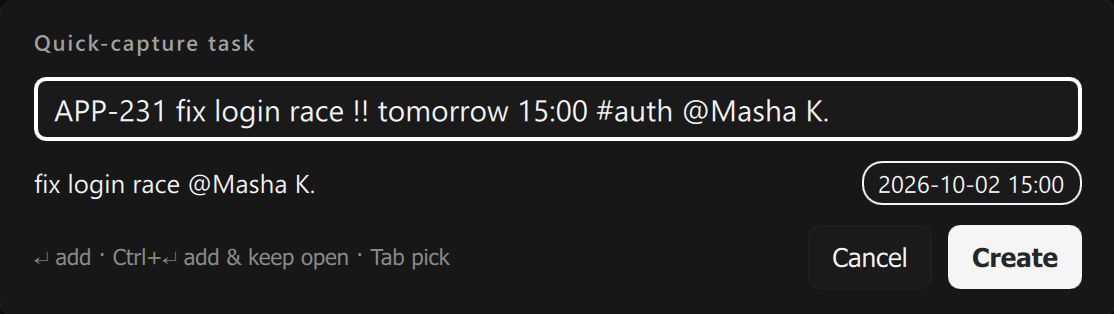
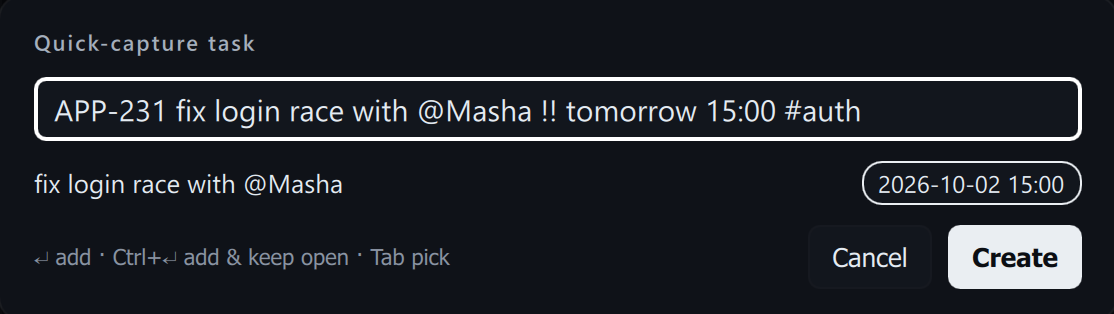
feat(theme): heap. ink preset as the new default; reshoot screenshots
heap. ink is the Minimal recipe in the brand's own colours: navy-black
surfaces and the mark's ink greys from design/brand-export, a monochrome
accent like the logo, hairlines tinted with the ink, the brand cyan for
links, mentions and keywords, and the brand status hues. New installs and
"Reset all settings" now start on it (with heap. light and soft
contrast); the built-in fallback for profiles that never opened
Appearance stays heap. dark.

Screenshots are retaken in heap. ink, without the git focus banner; the
README keeps git as a feature in text only.

The social card used as the README hero rendered with fallback fonts on
GitHub (Arial / Georgia) and a stray space in "heap .", from a line break
before the dot's <tspan>. The source keeps live text with the break
removed; heap-og-card-outlined.svg has the text as glyph outlines from the
fonts the site already ships, generated by design/brand-export/outline_svg.py.

diff --git a/qml/I18n.qml b/qml/I18n.qml
@@ -1012,7 +1012,7 @@ QtObject {
             "settings.data.importJson": "↑ Import from JSON",
             "settings.data.danger": "Danger zone",
             "settings.data.reset": "Reset all settings",
-            "settings.data.reset.hint": "Appearance (back to Minimal dark, soft), notifications, calendar, tasks, backups, updates and git rules go back to defaults. Kept: profiles, tasks, notes, your profile card, tracker connections, watched repositories, your own themes and the window layout. Undo from the toast.",
+            "settings.data.reset.hint": "Appearance (back to heap. ink, soft), notifications, calendar, tasks, backups, updates and git rules go back to defaults. Kept: profiles, tasks, notes, your profile card, tracker connections, watched repositories, your own themes and the window layout. Undo from the toast.",
             "settings.data.resetButton": "Reset all",
             "settings.data.wipe": "Delete all data",
             "settings.data.wipe.hint": "Erase every profile, task, note, doc and backup on this device and restart as a fresh install — with the welcome guide and example data. This cannot be undone.",
@@ -2203,7 +2203,7 @@ QtObject {
             "settings.data.importJson": "↑ Импорт из JSON",
             "settings.data.danger": "Опасная зона",
             "settings.data.reset": "Сбросить все настройки",
-            "settings.data.reset.hint": "Оформление (обратно Minimal dark, мягкий контраст), уведомления, календарь, задачи, бэкапы, обновления и правила git — к значениям по умолчанию. Остаются: профили, задачи, заметки, карточка профиля, подключения трекеров, отслеживаемые репозитории, свои темы и раскладка окна. Отменить — из тоста.",
+            "settings.data.reset.hint": "Оформление (обратно heap. ink, мягкий контраст), уведомления, календарь, задачи, бэкапы, обновления и правила git — к значениям по умолчанию. Остаются: профили, задачи, заметки, карточка профиля, подключения трекеров, отслеживаемые репозитории, свои темы и раскладка окна. Отменить — из тоста.",
             "settings.data.resetButton": "Сбросить всё",
             "settings.data.wipe": "Удалить все данные",
             "settings.data.wipe.hint": "Стереть все профили, задачи, заметки, документы и резервные копии на этом устройстве и запустить приложение как при первой установке — с приветствием и примерами. Отменить нельзя.",

diff --git a/qml/ThemePresets.js b/qml/ThemePresets.js
@@ -273,6 +273,32 @@ var MINIMAL_DARK = {
     }
 };
 
+// heap. ink: the Minimal recipe in the brand's own colours. Navy-black
+// surfaces and the mark's ink greys from design/brand-export, a monochrome
+// accent like the logo, hairlines tinted with the ink, and the brand cyan
+// kept for links, mentions and keywords.
+var HEAP_INK = {
+    id: "heap-ink", name: "heap. ink", base: "dark", builtin: true,
+    colors: {
+        bg: "#0b0e13", bg2: "#080a0e", panel: "#0f1218", panel2: "#141820",
+        panel3: "#1a1f29", border: "#14c6d0dc", borderStrong: "#26c6d0dc", text: "#e5ecf3",
+        textMuted: "#a6b0bd", textDim: "#8a94a3", textOnAccent: "#0b0e13", textOnDanger: "#0b0e13",
+        textOnBadge: "#0b0e13", accent: "#e8eef4", accentStrong: "#ffffff", accentSoft: "#1ac6d0dc",
+        knob: "#a6b0bd", danger: "#e6624c", warning: "#fe9c3a", success: "#78be7a",
+        info: "#32b2e7", toastBg: "#141820", toastBorder: "#1ac6d0dc", toastText: "#e5ecf3",
+        scrim: "#99000000", p0: "#e6624c", p1: "#fe9c3a", p2: "#a6b0bd",
+        p3: "#8a94a3", stBacklog: "#6f7888", stTodo: "#86a0bd", stProg: "#32b2e7",
+        stHalf: "#d8c277", stBlocked: "#e6624c", stReview: "#bf94ec", stDone: "#78be7a",
+        mStandup: "#32b2e7", mOneone: "#bf94ec", mSync: "#3bccdd", mFocus: "#78be7a",
+        nowLine: "#e6624c", synKeyword: "#3bccdd", synString: "#78be7a", synNumber: "#d8c277",
+        synComment: "#7d8797", synType: "#86a0bd", synBuiltin: "#e5ecf3", codeBg: "#080a0e",
+        code: "#c6d0dc", mention: "#3bccdd", ticket: "#a6b0bd", tag: "#bf94ec",
+        math: "#d8c277", heading: "#a6b0bd", highlightBg: "#4dd8c277", mdLink: "#3bccdd",
+        mdCode: "#e5ecf3", mdCodeBg: "#141820", mdMention: "#3bccdd", mdTicket: "#e5ecf3",
+        mdTag: "#bf94ec", mdMath: "#d8c277", mdHighlight: "#4dd8c277"
+    }
+};
+
 // The colours the user can give a column, a label, a person or a profile.
 // They are stored as data (a column keeps its colour whatever the theme), so
 // every picker offers the same ten: one hue per family, then two greys. The
@@ -280,7 +306,7 @@ var MINIMAL_DARK = {
 var SWATCHES = ["#5cc2dd", "#5aa9e6", "#a4a4d6", "#c07acf", "#e6624c",
                 "#e69854", "#dcb86b", "#6ec18a", "#9aa3b4", "#8a8e98"];
 
-var PRESETS = [HEAP_DARK, HEAP_LIGHT, MINIMAL_DARK, ASH, STONE, SLATE, SAGE];
+var PRESETS = [HEAP_DARK, HEAP_LIGHT, MINIMAL_DARK, HEAP_INK, ASH, STONE, SLATE, SAGE];
 
 // Built-ins that were retired, and the one that replaces each, so a user who
 // picked one lands on its nearest relative instead of the slot default.

diff --git a/tests/qml/tst_StorageSafety.qml b/tests/qml/tst_StorageSafety.qml
@@ -46,7 +46,7 @@ TestCase {
         AppController.resetSettingsToDefaults();
         compare(spy.count, 1);
         const after = JSON.parse(AppController.appSettingsJson);
-        compare(after.appearance.darkPreset, "minimal-dark");
+        compare(after.appearance.darkPreset, "heap-ink");
         compare(after.appearance.contrast, "soft");
         compare(after.appearance.customThemes.length, 1);
         compare(after.notifications, undefined);

diff --git a/design/brand-export/outline_svg.py b/design/brand-export/outline_svg.py
@@ -1,0 +1,118 @@
+#!/usr/bin/env python3
+"""Outline the text in a brand surface SVG so it renders the same everywhere.
+
+The surface SVGs name IBM Plex Sans / Serif and JetBrains Mono but cannot load
+them: GitHub, social cards and most viewers render an <img> SVG without web
+fonts and fall back to Arial / Georgia. This replaces every <text> with the
+glyph outlines from the fonts the site already ships, so the file needs no
+font at all.
+
+    python design/brand-export/outline_svg.py \
+        design/brand-export/surfaces/heap-og-card.svg \
+        design/brand-export/surfaces/heap-og-card-outlined.svg
+
+Needs fontTools and brotli (`pip install fonttools brotli`). Kerning is not
+applied; letter-spacing, font-size, weight and text-anchor are.
+"""
+
+import re
+import sys
+import xml.etree.ElementTree as ET
+from pathlib import Path
+
+from fontTools.pens.svgPathPen import SVGPathPen
+from fontTools.pens.transformPen import TransformPen
+from fontTools.ttLib import TTFont
+
+SVG_NS = "http://www.w3.org/2000/svg"
+FONTS_DIR = Path(__file__).resolve().parents[2] / "site" / "public" / "brand" / "assets" / "fonts"
+FAMILIES = {
+    "ibm plex sans": "ibm-plex-sans",
+    "ibm plex serif": "ibm-plex-serif",
+    "jetbrains mono": "jetbrains-mono",
+}
+INHERITED = ("font-family", "font-weight", "font-size", "letter-spacing", "fill", "text-anchor")
+
+_fonts = {}
+
+
+def load_font(family, weight):
+    stem = FAMILIES.get(family.lower())
+    if stem is None:
+        raise SystemExit(f"no outline font for family {family!r}")
+    available = sorted(int(p.stem.split("-")[-2]) for p in FONTS_DIR.glob(f"{stem}-latin-*-normal.woff2"))
+    best = min(available, key=lambda w: abs(w - weight))
+    key = (stem, best)
+    if key not in _fonts:
+        _fonts[key] = TTFont(FONTS_DIR / f"{stem}-latin-{best}-normal.woff2")
+    return _fonts[key]
+
+
+def first_family(value):
+    for name in value.split(","):
+        name = name.strip().strip("'\"")
+        if name.lower() in FAMILIES:
+            return name
+    raise SystemExit(f"no known family in {value!r}")
+
+
+def svg_text(el):
+    # SVG's default white-space handling: newlines dropped, runs of spaces
+    # collapsed, leading and trailing space stripped.
+    raw = "".join(el.itertext()).replace("\n", "").replace("\t", " ")
+    return re.sub(r" +", " ", raw).strip()
+
+
+def outline(text, font, size, spacing, x, y, anchor):
+    glyphs = font.getGlyphSet()
+    cmap = font.getBestCmap()
+    hmtx = font["hmtx"]
+    scale = size / font["head"].unitsPerEm
+    names = [cmap.get(ord(ch), ".notdef") for ch in text]
+    advances = [hmtx[n][0] * scale + spacing for n in names]
+    width = sum(advances) - (spacing if names else 0)
+    if anchor == "end":
+        x -= width
+    elif anchor == "middle":
+        x -= width / 2
+    pen = SVGPathPen(glyphs)
+    cursor = x
+    for name, adv in zip(names, advances):
+        glyphs[name].draw(TransformPen(pen, (scale, 0, 0, -scale, cursor, y)))
+        cursor += adv
+    return pen.getCommands()
+
+
+def walk(el, inherited):
+    attrs = dict(inherited)
+    for key in INHERITED:
+        if key in el.attrib:
+            attrs[key] = el.attrib[key]
+    for i, child in enumerate(list(el)):
+        if child.tag == f"{{{SVG_NS}}}text":
+            a = dict(attrs)
+            for key in INHERITED:
+                if key in child.attrib:
+                    a[key] = child.attrib[key]
+            font = load_font(first_family(a["font-family"]), int(a.get("font-weight", 400)))
+            d = outline(svg_text(child), font, float(a["font-size"]), float(a.get("letter-spacing", 0)),
+                        float(child.attrib.get("x", 0)), float(child.attrib.get("y", 0)),
+                        a.get("text-anchor", "start"))
+            path = ET.Element(f"{{{SVG_NS}}}path", {"d": d, "fill": a.get("fill", "#000")})
+            el.remove(child)
+            el.insert(i, path)
+        else:
+            walk(child, attrs)
+
+
+def main(src, dst):
+    ET.register_namespace("", SVG_NS)
+    tree = ET.parse(src)
+    walk(tree.getroot(), {})
+    tree.write(dst, encoding="utf-8", xml_declaration=True)
+
+
+if __name__ == "__main__":
+    if len(sys.argv) != 3:
+        raise SystemExit(__doc__)
+    main(sys.argv[1], sys.argv[2])

diff --git a/src/AppController.cpp b/src/AppController.cpp
@@ -5328,7 +5328,7 @@ void AppController::seedExampleProfile() {
   // Seed a single "Example" profile from SampleData + turn on the first-run
   // onboarding. Called on a genuine fresh install and by resetToFirstRun().
 
-  // A new user starts on Minimal dark / heap. light with soft contrast — or
+  // A new user starts on heap. ink / heap. light with soft contrast — or
   // high contrast and no motion when the system asks for them (design audit
   // DES-23). Written into the settings rather than made the built-in
   // fallback, so someone who has been on heap. dark without ever opening
@@ -5471,7 +5471,7 @@ void AppController::resetSettingsToDefaults() {
     }
   }
   // A new install's look, not the built-in fallback (heap. dark, normal).
-  QJsonObject appearance{{"darkPreset", "minimal-dark"}, {"lightPreset", "heap-light"}, {"contrast", "soft"}};
+  QJsonObject appearance{{"darkPreset", "heap-ink"}, {"lightPreset", "heap-light"}, {"contrast", "soft"}};
   const QJsonObject oldAppearance = current.value("appearance").toObject();
   if(oldAppearance.contains("customThemes")) {
     appearance["customThemes"] = oldAppearance.value("customThemes");  // the user's own work

diff --git a/tests/test_onboarding.cpp b/tests/test_onboarding.cpp
@@ -51,13 +51,13 @@ TEST_F(OnboardingTest, FreshInstallShowsWelcomeAndFlagsDemo) {
   EXPECT_TRUE(app.demoActive());
 }
 
-// A new user starts on Minimal dark / heap. light with soft contrast, written into the
+// A new user starts on heap. ink / heap. light with soft contrast, written into the
 // settings so the built-in fallback (heap. dark) still holds for everyone who
 // has never opened Appearance.
-TEST_F(OnboardingTest, FreshInstallStartsOnMinimalWithSoftContrast) {
+TEST_F(OnboardingTest, FreshInstallStartsOnInkWithSoftContrast) {
   AppController app;
   const QJsonObject appearance = QJsonDocument::fromJson(app.appSettingsJson().toUtf8()).object()["appearance"].toObject();
-  EXPECT_EQ(appearance["darkPreset"].toString(), QStringLiteral("minimal-dark"));
+  EXPECT_EQ(appearance["darkPreset"].toString(), QStringLiteral("heap-ink"));
   EXPECT_EQ(appearance["lightPreset"].toString(), QStringLiteral("heap-light"));
   EXPECT_EQ(appearance["contrast"].toString(), QStringLiteral("soft"));
 }

diff --git a/tests/test_accessibility.cpp b/tests/test_accessibility.cpp
@@ -19,7 +19,7 @@ QJsonObject appearanceOf(const QString& json) {
 
 TEST(FirstRunAppearance, DefaultsToSoftContrastWithMotion) {
   const QJsonObject a = appearanceOf(heap::platform::firstRunAppearanceJson({}));
-  EXPECT_EQ(a.value(QStringLiteral("darkPreset")).toString(), QStringLiteral("minimal-dark"));
+  EXPECT_EQ(a.value(QStringLiteral("darkPreset")).toString(), QStringLiteral("heap-ink"));
   EXPECT_EQ(a.value(QStringLiteral("lightPreset")).toString(), QStringLiteral("heap-light"));
   EXPECT_EQ(a.value(QStringLiteral("contrast")).toString(), QStringLiteral("soft"));
   EXPECT_FALSE(a.contains(QStringLiteral("reducedMotion")));

diff --git a/src/AppController.h b/src/AppController.h
@@ -495,7 +495,7 @@ class AppController : public QObject {
   // first-run onboarding, so the app is exactly "as new" on this device.
   Q_INVOKABLE void resetToFirstRun();
   // Settings -> Data -> "Reset all settings" (UX-5): preferences go back to a
-  // new install's (Minimal dark + soft contrast included). Kept: the profile
+  // new install's (heap. ink + soft contrast included). Kept: the profile
   // card, tracker connections, watched repositories, your own themes, window
   // and panel layout, and anything the Settings page does not own. Undoable
   // through undoSettingsReset() for as long as the toast offers it.

diff --git a/src/platform/Accessibility.h b/src/platform/Accessibility.h
@@ -16,7 +16,7 @@ struct AccessibilityPrefs {
 // theme on → high_contrast. Elsewhere both are false for now.
 AccessibilityPrefs systemAccessibilityPrefs();
 
-// The appearance a new profile starts with: Minimal dark / heap. light, soft
+// The appearance a new profile starts with: heap. ink / heap. light, soft
 // contrast — or high contrast and no motion when the system asks for them.
 // Pure, so the choice is testable without the system settings.
 QString firstRunAppearanceJson(const AccessibilityPrefs& prefs);

diff --git a/src/platform/Accessibility.cpp b/src/platform/Accessibility.cpp
@@ -27,7 +27,7 @@ AccessibilityPrefs systemAccessibilityPrefs() {
 
 QString firstRunAppearanceJson(const AccessibilityPrefs& prefs) {
   QJsonObject appearance{
-      {QStringLiteral("darkPreset"), QStringLiteral("minimal-dark")},
+      {QStringLiteral("darkPreset"), QStringLiteral("heap-ink")},
       {QStringLiteral("lightPreset"), QStringLiteral("heap-light")},
       {QStringLiteral("contrast"), prefs.high_contrast ? QStringLiteral("high") : QStringLiteral("soft")},
   };

diff --git a/README.md b/README.md
@@ -1,5 +1,5 @@
 <p align="center">
-  <img src="design/brand-export/surfaces/heap-og-card.svg" width="100%" alt="heap. — Work, in one place.">
+  <img src="design/brand-export/surfaces/heap-og-card-outlined.svg" width="100%" alt="heap. — Work, in one place.">
 </p>
 
 <h3 align="center">Tickets, calendar and notes for engineers — one native, keyboard-first window.</h3>
@@ -20,7 +20,7 @@
 </div>
 
 <p align="center">
-  <img src="docs/assets/img/screens/board-kanban.png" width="100%" alt="heap. board: kanban columns, the git banner for the task you're on, today's calendar, people to ping">
+  <img src="docs/assets/img/screens/board-kanban.png" width="100%" alt="heap. board: kanban columns, today's calendar, people to ping">
 </p>
 
 Your tickets from GitHub, Jira, GitLab and nine more trackers, your meetings and focus time, your notes — side by side
@@ -40,7 +40,7 @@ English or Russian.
 
 | You type | You get |
 | --- | --- |
-| `APP-231 fix login race !! tomorrow 15:00 #auth` | task `APP-231`, priority P1, due tomorrow at 15:00, labelled `auth` |
+| `APP-231 fix login race with @Masha !! tomorrow 15:00 #auth` | task `APP-231`, priority P1, due tomorrow at 15:00, labelled `auth`, linked to Masha |
 | `1:1 with @anna thursday 12:00` | a 1:1 on Thursday's calendar with Anna as an attendee |
 | `focus refactor parser 10:00` | a focus block on today's calendar |
 | `review PRs every weekday 10:00` | a task that repeats every weekday at 10:00 |
@@ -53,10 +53,6 @@ Full syntax: [First day in heap.](docs/TUTORIAL.md#quick-capture-syntax)
 heap. watches your working copy. Check out a branch with the ticket in its name — `feature/app-101-login-rate-limit`
 — and the top bar says you're working on `APP-101`, with its pull request and CI checks one click away. The card
 carries the PR state too. Need a branch? Create one from the task's menu. No manual linking.
-
-<p align="center">
-  <img src="docs/assets/img/readme/git.png" width="460" alt="Top bar: Working on APP-101, PR #214 open, CI passing; the APP-101 card shows PR #214 open">
-</p>
 
 ### Every tracker, one board
 
@@ -100,7 +96,7 @@ moves the card, `Ctrl+1`…`8` switch views. Every shortcut is rebindable from o
 - **Recurring tasks** and **automation**: auto-archive, stuck-task warnings, deadline and standup reminders, quiet hours
 - **Undo and redo** for every change
 - **Profiles** — separate workspaces per project or job, with JSON import / export
-- **Themes** — dark and light presets, accent colours, contrast modes, density
+- **Themes** — heap. ink in the brand's colours by default, more dark and light presets, your own themes, contrast modes, density
 - **Weekly report**, one keystroke away (`Ctrl+Shift+W`)
 - A sample board and a replayable **guided tour** on first run
 

diff --git a/design/brand-export/README.md b/design/brand-export/README.md
@@ -25,7 +25,8 @@ brand-export/
 │  ├─ heap-splash.svg
 │  ├─ heap-readme-banner.svg
 │  ├─ heap-marketing-hero.svg
-│  └─ heap-og-card.svg        ← 1200×630 social card
+│  ├─ heap-og-card.svg        ← 1200×630 social card (source, live text)
+│  └─ heap-og-card-outlined.svg ← same card, text as paths (README hero)
 ├─ export/                    ← navigator + raw export bundle (`index.html`)
 ├─ brand.css                  ← brandbook tokens as CSS variables
 └─ heap brand.html            ← full brandbook
@@ -83,6 +84,14 @@ The surface SVGs (`heap-splash`, `heap-readme-banner`, `heap-og-card`,
 `heap-marketing-hero`) reference IBM Plex Sans / Serif / JetBrains Mono by name only — no `<link>` to a font CDN. If the
 host system has those fonts installed the text renders pixel-perfect; otherwise geometry is unchanged and text falls
 back to the system sans / serif / mono.
+
+`heap-og-card-outlined.svg` is the social card with its text converted to glyph outlines from the fonts in
+`site/public/brand/assets/fonts/`, so it renders identically anywhere — GitHub included — with no font installed.
+Regenerate it after editing the source (needs `pip install fonttools brotli`):
+
+```bash
+python design/brand-export/outline_svg.py     design/brand-export/surfaces/heap-og-card.svg     design/brand-export/surfaces/heap-og-card-outlined.svg
+```
 
 For a guaranteed-identical render on social cards (`og:image`) and the README banner, pre-rasterise to PNG:
 
